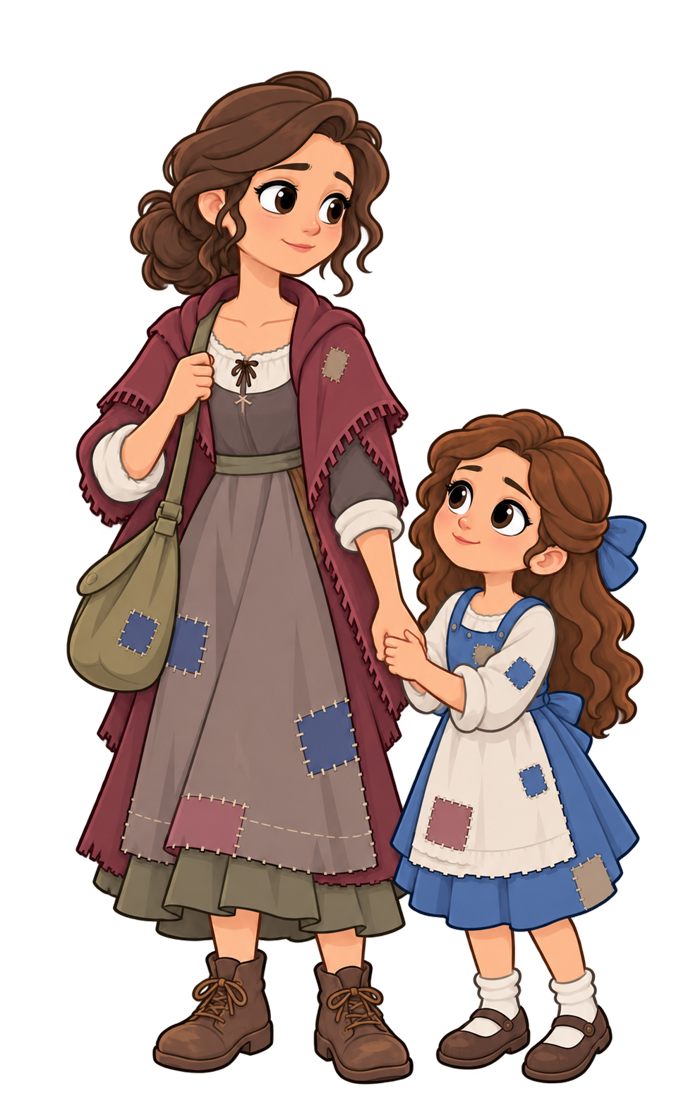
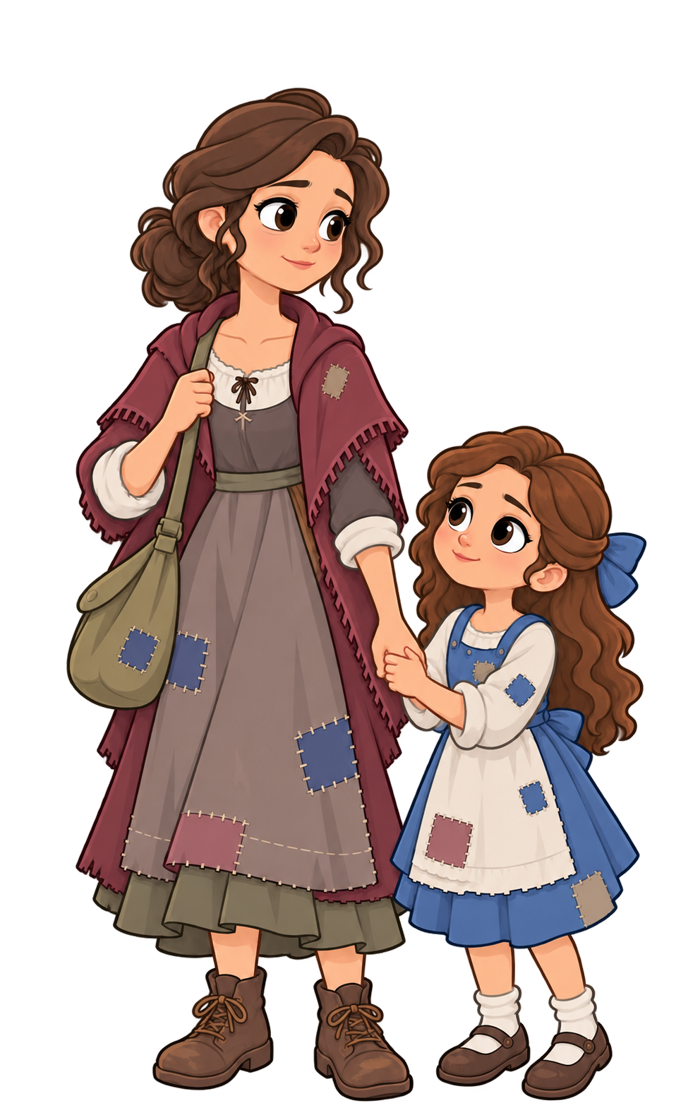
art: align family feet and resize kitchen doorway

Changed region(s): [[0.09, 0.0625, 0.93, 1.0], [0.33, 0.5312, 0.36, 0.5625]]

diff --git a/docs/ART_STATUS.md b/docs/ART_STATUS.md
@@ -6,12 +6,12 @@
 | Файл | Статус | Заметки |
 |---|---|---|
 | art/act1/family/family_mood0.png | в игре | Claude: масштаб и ноги в комнате в порядке (снимки 720×1280/1600). |
-| art/act1/family/family_mood1.png | черновик | Та же пара осторожно улыбается, 700×1120; проверить смену без скачка. |
-| art/act1/family/family_mood2.png | черновик | Та же пара радуется, 700×1120; проверить смену без скачка. |
-| art/act1/family/family_mood3.png | черновик | Та же пара счастлива, 700×1120; проверить смену без скачка. |
+| art/act1/family/family_mood1.png | готово | Та же пара осторожно улыбается, 700×1120; ступни опущены до y≈1101, как у mood0. |
+| art/act1/family/family_mood2.png | готово | Та же пара радуется, 700×1120; ступни на y≈1100. |
+| art/act1/family/family_mood3.png | готово | Та же пара счастлива, 700×1120; ступни на y≈1100. |
 | art/act1/room/background.png | в игре | Claude: подключён; окно на фоне в перспективе левой стены — слои окна подгоняются под него. |
-| art/act1/room/room_window_broken.png | черновик | Новая вставка стекла 356×1044 по шаблону `docs/art_guides/room_window_guide.png`; композиция по шаблону проверена, ждёт проверки в Godot от Opus. |
-| art/act1/room/room_window_fixed.png | черновик | Парная цельная вставка стекла 356×1044 по тому же шаблону; ждёт проверки в Godot от Opus. |
+| art/act1/room/room_window_broken.png | готово | Новая вставка стекла 356×1044 по шаблону; в Godot 450×1000 совпадает с проёмом. Opus проверит другие экраны. |
+| art/act1/room/room_window_fixed.png | готово | Парная цельная вставка стекла 356×1044 по шаблону; совмещение проверено на шаблоне. |
 | art/act1/room/room_bed_broken.png | в игре |  |
 | art/act1/room/room_bed_fixed.png | в игре |  |
 | art/act1/room/room_floor_broken.png | в игре |  |
@@ -21,7 +21,7 @@
 
 Художественная схема всех 19 предметов: `art/act1/levels/ART_PLAN.md`. Готовы первые черновые фоны `art/act1/levels/window.png` и `sink.png` (оба 1440×3120, непрозрачные): крупные планы разбитой рамы и раковины, со спокойным центром для физики. Opus сопоставляет темы 12–19 с уровнями; реализация головоломок остаётся у него.
 
-Проверка этих фонов в Godot на `home_01` и `home_05`, 450×1000: пока виден белый фон вместо нового PNG и вместо прежнего тематического оформления. Ошибка подключения/отрисовки передана Opus в issue #3; графику нельзя считать «в игре» до нового кадра.
+Проверка этих фонов в Godot: Opus исправил масштаб отрисовки. `window.png` виден на `home_01`, `sink.png` на `home_06` при 450×1000; Opus также проверил 720×1280/1600. На `home_05` теперь плита, `home_06` — раковина: порядок первых двух кухонных заданий отличается от исходной просьбы владельца, передано Opus для исправления. У раковины текущий игровой слив смещён вправо от нарисованного отверстия, геометрию правит Opus.
 
 Проверено для комнаты: PNG импортированы в Godot и открыт предварительный кадр 450×1000. Claude проверил фон, семью и остальные предметы на 720×1280/1600 и поставил им статус «в игре». Старое окно не совпадало с проёмом; две новые вставки стекла сверены с точным шаблоном 356×1044, проверка полного кадра ждёт исправления ошибки сборки Opus. На телефоне не проверено.
 
@@ -29,7 +29,7 @@
 
 | Файл | Статус | Заметки |
 |---|---|---|
-| art/act1/kitchen/background.png | черновик | Пустая изношенная кухня 1440×3120, вид в угол под углом. |
+| art/act1/kitchen/background.png | готово | Пустая изношенная кухня 1440×3120, вид в угол под углом; левый дверной проём уменьшен по замечанию владельца, проверен в Godot 450×1000. |
 | art/act1/kitchen/kitchen_sink_broken.png | черновик | Отдельная раковина 520×500, прозрачность; в кадре Godot читается. |
 | art/act1/kitchen/kitchen_sink_fixed.png | черновик | Та же раковина после ремонта. |
 | art/act1/kitchen/kitchen_stove_broken.png | черновик | Плита 460×660; в текущей композиции закрывает лица семьи. Требуется расстановка Opus. |
@@ -44,4 +44,4 @@
 | art/act1/kitchen/kitchen_table.png | черновик | Небольшой отдельный бедный стол, 500×512; не ремонтируемая декорация. |
 | art/act1/kitchen/kitchen_chair.png | черновик | Отдельный детский стул, 350×358; Opus задаёт порядок слоёв с дочкой и столом. |
 
-Проверено: импорт PNG и кадр кухни в Godot 450×1000 после открытия этапа 4. Плита закрывает лица мамы и дочери; по новому указанию владельца в кухне персонажи будут раздельно (мама у плиты, дочь за столом), этим займётся Opus в сцене. Поздний повторный запуск с новыми слоями остановился на ошибке компиляции `location_view.gd:272` после изменения ветки Opus; ошибка передана ему в issue #3. Оценка новой посадки повторится после его исправления и координат. На телефоне не проверено.
+Проверено: импорт PNG и цельный кадр кухни в Godot 450×1000 после открытия этапа 4. Opus разместил маму у плиты и дочку отдельно; героини теперь читаются, мебель их не закрывает. Стол пока стоит рядом с дочкой, а не перед ней; запрос на подгонку отправлен Opus. Дверной проём уменьшен и не подавляет героев. Opus проверил и другие портретные экраны; на физическом телефоне эта версия не проверена.
